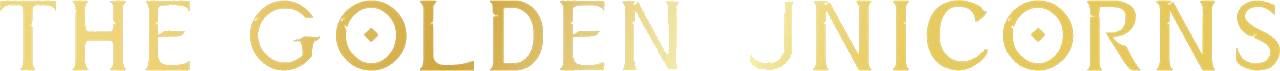
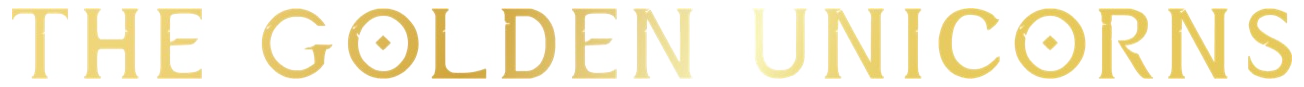
Polish home wordmark and refine fellowship copy

diff --git a/assets/css/site.css b/assets/css/site.css
@@ -124,18 +124,18 @@ iframe {
 .site-shell::before {
   content: "";
   position: fixed;
-  top: calc(var(--nav-h) - 6px);
+  top: 0;
   left: 0;
   right: 0;
-  height: clamp(88px, 12vw, 150px);
+  height: clamp(82px, 9vw, 122px);
   z-index: 15;
   pointer-events: none;
   background: linear-gradient(
     to bottom,
     rgba(6, 6, 5, 0.96) 0%,
-    rgba(6, 6, 5, 0.9) 18%,
-    rgba(6, 6, 5, 0.72) 42%,
-    rgba(6, 6, 5, 0.34) 72%,
+    rgba(6, 6, 5, 0.9) 22%,
+    rgba(6, 6, 5, 0.58) 54%,
+    rgba(6, 6, 5, 0.2) 78%,
     rgba(6, 6, 5, 0) 100%
   );
 }
@@ -433,7 +433,7 @@ iframe {
 
 .splash-subtitle {
   width: min(100%, 26rem);
-  margin: -0.45rem 0 0;
+  margin: 0.12rem 0 0;
   font-family: "Jost", sans-serif;
   font-size: clamp(0.64rem, 1.25vw, 0.78rem);
   font-weight: 300;
@@ -951,6 +951,7 @@ h2 em,
 
 .page-intro {
   text-align: center;
+  padding-top: clamp(3.3rem, 6vw, 4.9rem);
 }
 
 .page-intro .section-title {
@@ -966,7 +967,7 @@ h2 em,
 }
 
 .page-intro.aligned-intro {
-  padding-top: clamp(2.5rem, 5vw, 4rem);
+  padding-top: clamp(3.3rem, 6vw, 4.9rem);
 }
 
 .page-intro .hero-actions {
@@ -999,6 +1000,7 @@ h2 em,
 }
 
 .page-intro.events-intro {
+  padding-top: clamp(3.3rem, 6vw, 4.9rem);
   padding-bottom: clamp(0.75rem, 1.5vw, 1.05rem);
 }
 

diff --git a/events/index.html b/events/index.html
@@ -46,12 +46,10 @@
         </div>
       </div>
     </section>
-    <section class="section flow-section events-copy-section">
-      <div class="container split content-block events-copy-block">
-        <div class="reveal">
-          <span class="eyebrow">How We Gather</span>
-        </div>
-        <div class="body-copy reveal">
+    <section class="section flow-section tight-stack">
+      <div class="narrow page-intro reveal content-block">
+        <span class="eyebrow">How We Gather</span>
+        <div class="body-copy">
           <p>Through Gaytherins, the fellowship can be seen and felt: the mood, the aesthetic, the care, and the calibre of men it gathers.</p>
           <p>Upcoming Gaytherins live inside the app — where every Unicorn finds his next table.</p>
           <p>We also accept private commissions for members and aligned partners: intimate dinners, birthdays, weddings, launches, cultural nights, hosted travel, and tailored celebrations where artistry and hospitality matter.</p>
@@ -63,15 +61,15 @@
         <div class="grid reveal">
           <article class="tile">
             <h3>Private Celebrations</h3>
-            <p>Birthdays, dinners, anniversaries, hosted weekends, and intimate moments designed with care, discretion, and style.</p>
+            <p>Birthdays like no other, dinners, anniversaries, hosted weekends, and intimate moments designed with care, discretion, and style.</p>
           </article>
           <article class="tile">
             <h3>Ceremonial Gatherings</h3>
-            <p>Weddings, rituals, and one-of-a-kind experiences shaped with emotional intelligence, narrative, and a distinctive aesthetic language.</p>
+            <p>Weddings, bachelor celebrations, vow renewals, and rituals of transition — one-of-a-kind experiences shaped with emotional intelligence, narrative, and a distinctive aesthetic language.</p>
           </article>
           <article class="tile">
             <h3>Brand Partnerships</h3>
-            <p>Events and experiences for brands that want to meet our audience through culture, beauty, and authentic fellowship.</p>
+            <p>For selected brands, we open the room every campaign dreams of: curated experiences where a house meets the fellowship through culture, beauty, and conversation — face to face with the men who set the tone. By alignment, by invitation, by design.</p>
           </article>
         </div>
       </div>

diff --git a/membership/index.html b/membership/index.html
@@ -89,7 +89,7 @@
           <article class="membership-card reveal">
             <span class="eyebrow">The Golden Unicorn Experience — €11,111 / year</span>
             <h3>Be celebrated.</h3>
-            <p>Everything in Golden, plus selected fellowship experiences worldwide, eleven personalised gestures across the year, and The Spices Ceremony.</p>
+            <p>Everything in Golden, plus selected fellowship experiences worldwide, eleven personalised gestures across the year, and The Spices Ceremony — a celebration of one life, told through the spices of the world.</p>
           </article>
           <article class="membership-card reveal">
             <span class="eyebrow">Founder</span>
@@ -132,6 +132,10 @@
           <details>
             <summary>What is the difference between the memberships?</summary>
             <p>Global Unicorn is the doorway: full access to the fellowship inside the app, plus Gaytherins around the world. Golden Unicorn adds recognition: priority at Private Gaytherins, entry to Unplugged Gaytherins, and the Unicorn Insignia in solid 18ct gold. The Golden Unicorn Experience adds celebration: selected experiences worldwide, eleven personalised gestures across the year, and The Spices Ceremony.</p>
+          </details>
+          <details>
+            <summary>What is The Spices Ceremony?</summary>
+            <p>The Spices Ceremony is our signature ritual: a celebration of one life, told through the spices of the world — their stories, their symbolism, their fire. It is created for the celebrated Unicorn’s birthday: him and ten guests of his choosing, eleven at the table, anywhere in the world, on a date set together. Reserved for The Golden Unicorn Experience.</p>
           </details>
           <details>
             <summary>Is my privacy protected?</summary>